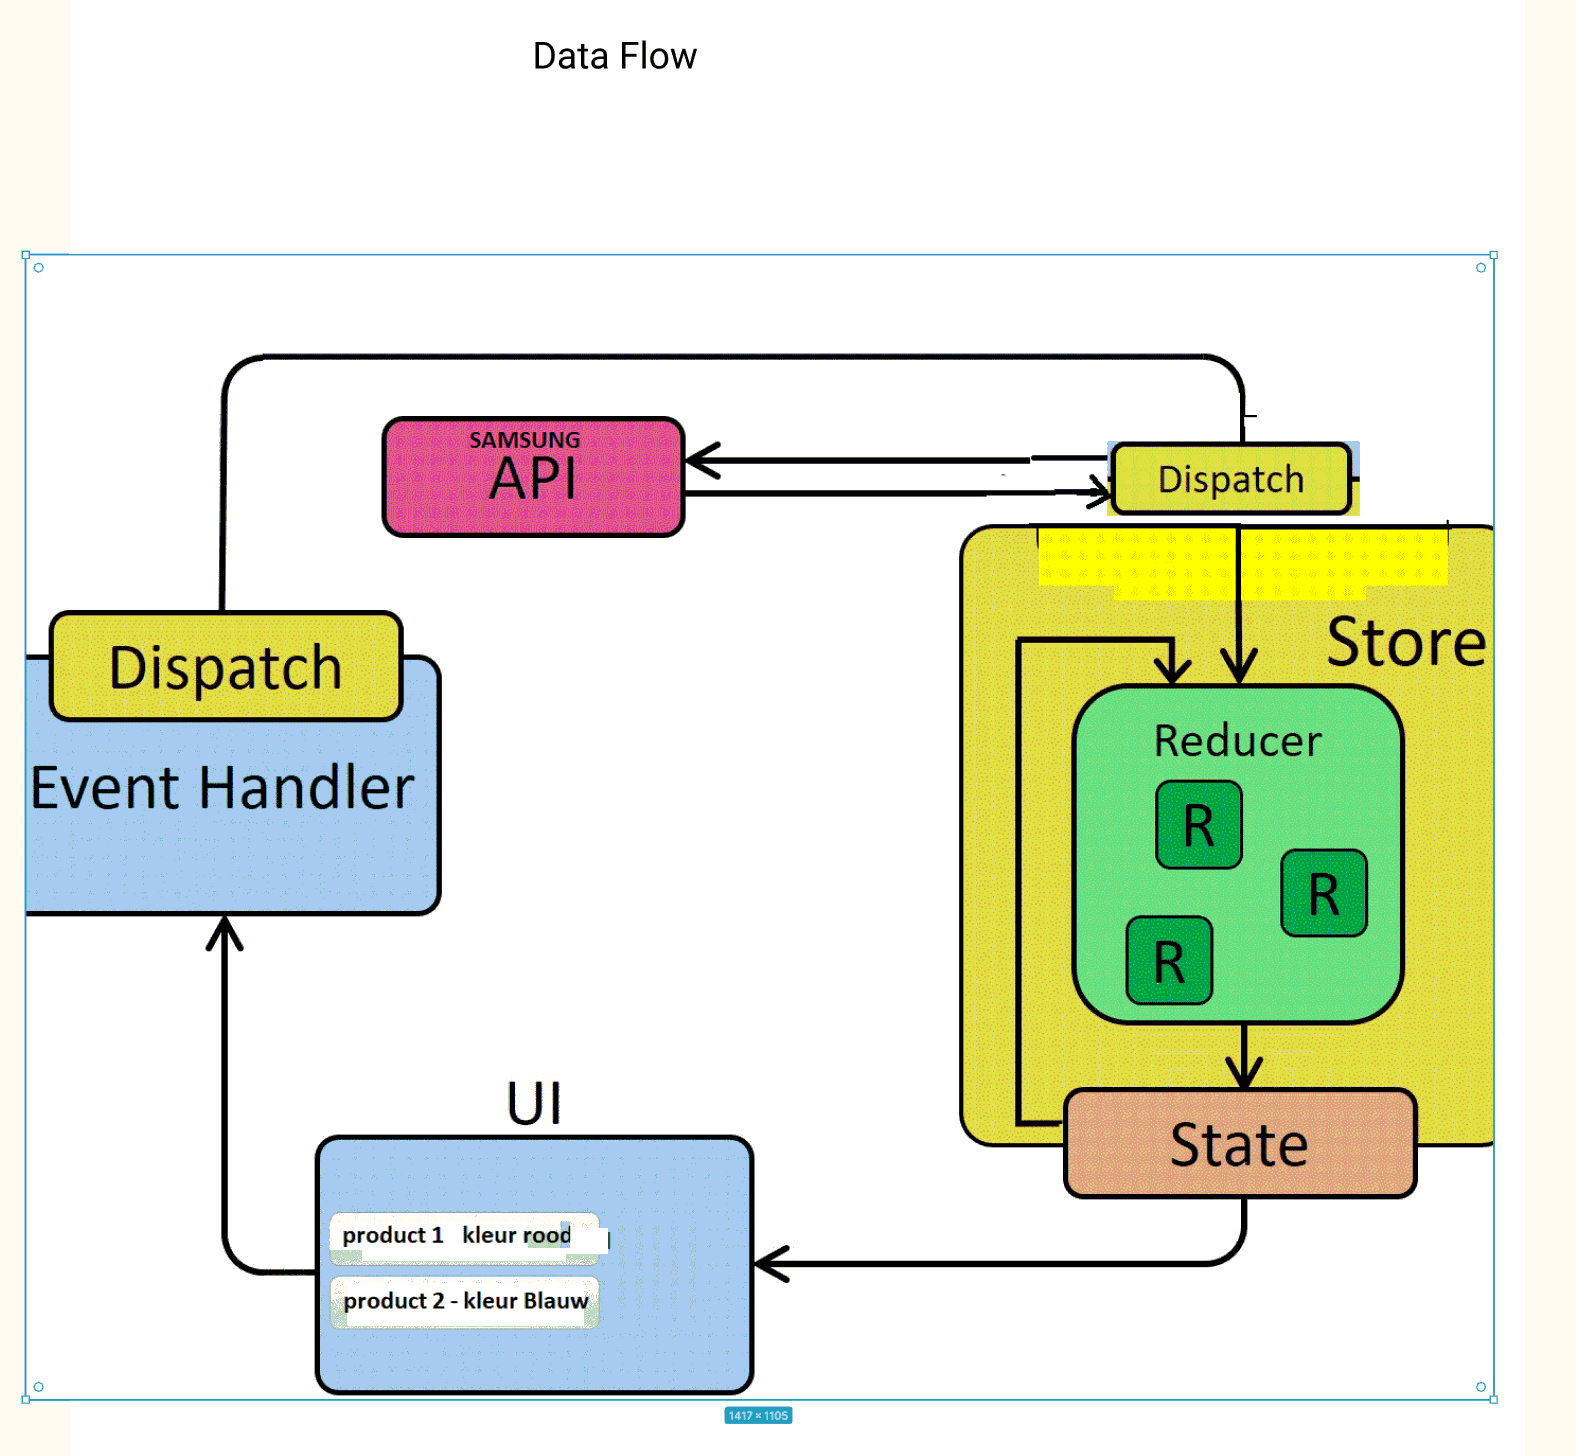
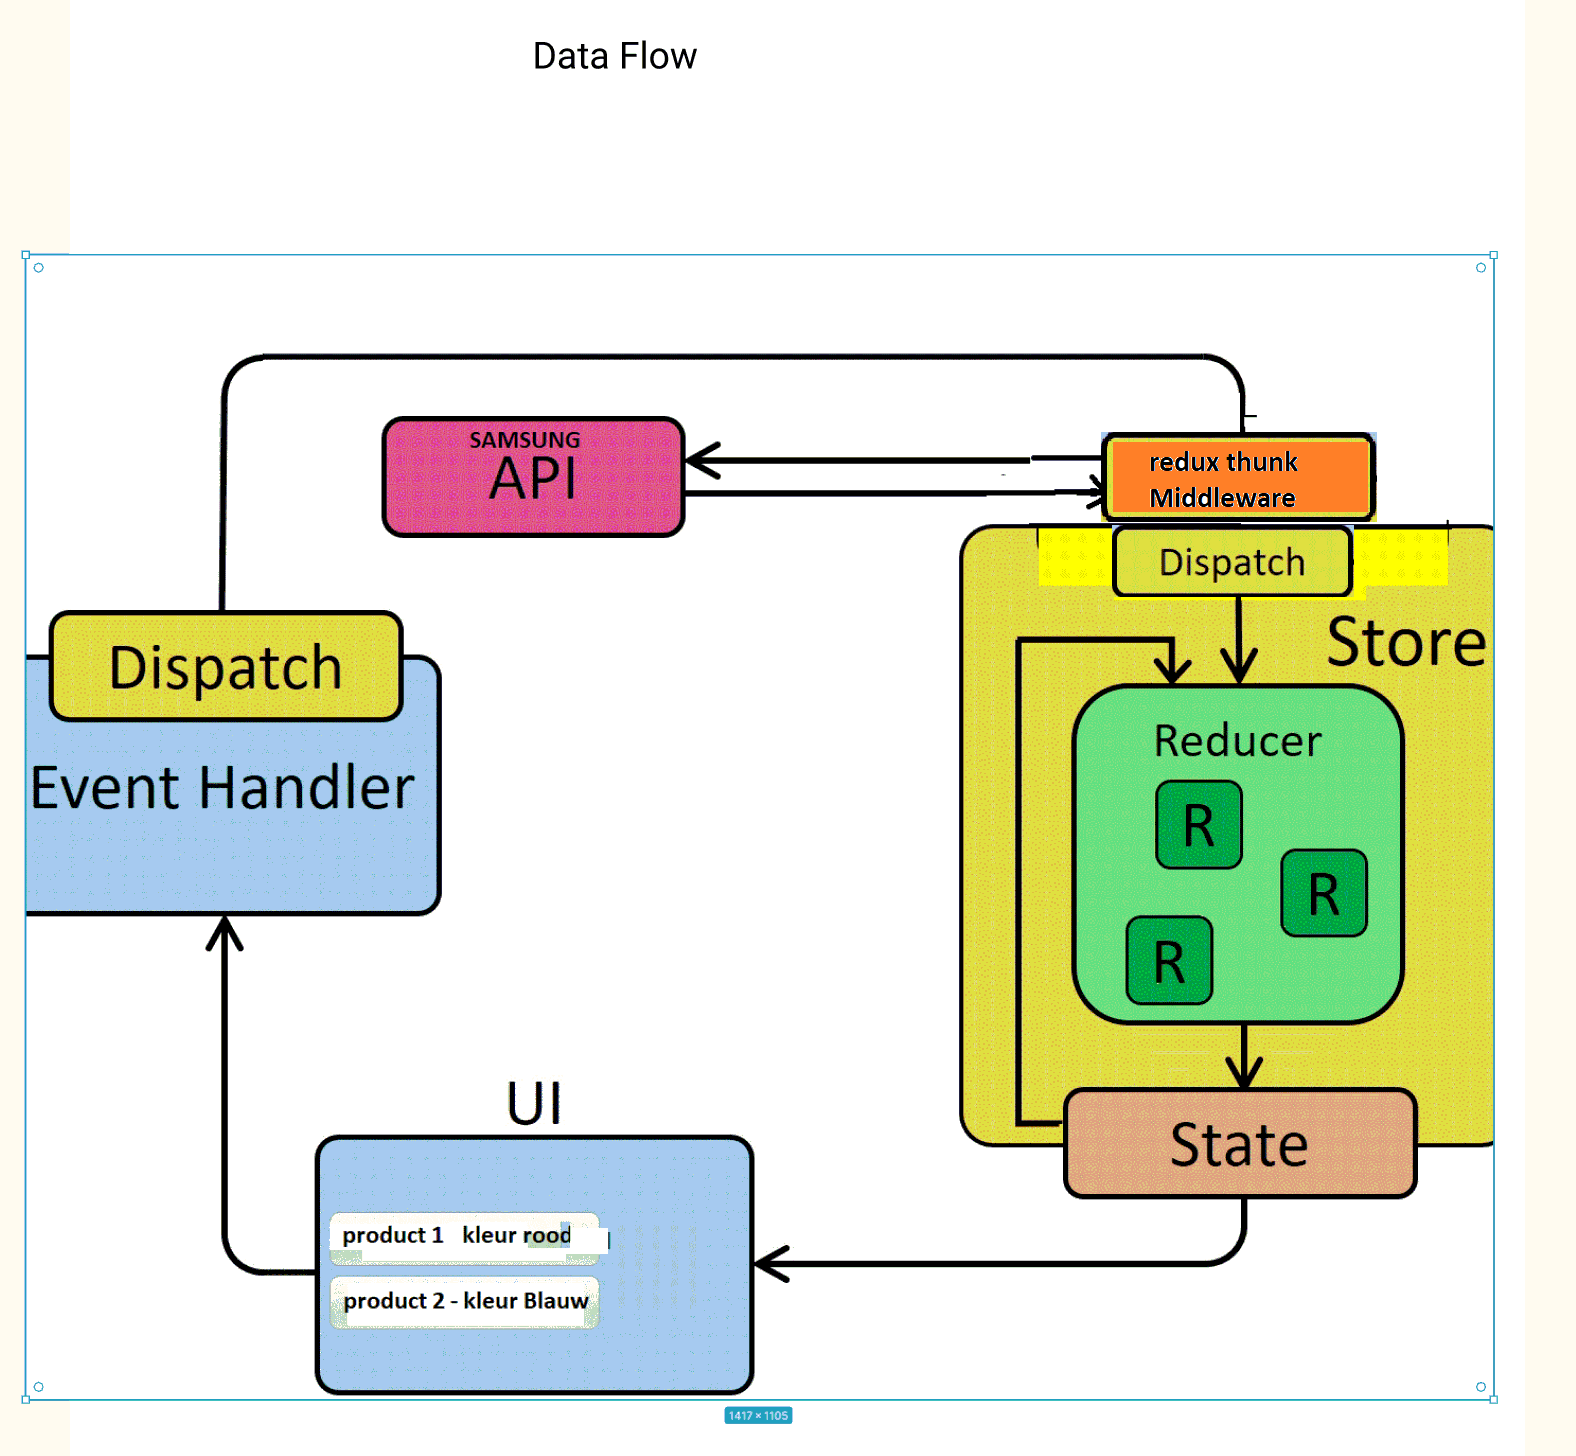
added redux thunk middleware in order to make async calls, updated the dataflow wireframe

Changed region(s): [[0.684, 0.2782, 0.9016, 0.4327]]

diff --git a/src/pages/Home.js b/src/pages/Home.js
@@ -1,7 +1,19 @@
 import React, { useEffect } from 'react'
+import { useDispatch, useSelector } from "react-redux";
+import { selectProducts } from "../store/products/selectors";
+import { fetchProducts } from '../store/products/actions';
+
 
 export default function Home() {
+    const dispatch = useDispatch()
+    const products = useSelector(selectProducts);
 
+    console.log('products', products);
+    dispatch(fetchProducts());
+    
+    useEffect(() => {
+        
+      }, []);
 
     return (
         <div>

diff --git a/src/store/index.js b/src/store/index.js
@@ -1,10 +1,11 @@
-import { createStore } from "redux";
+import { createStore, applyMiddleware, compose } from "redux";
+
+import ReduxThunk from "redux-thunk";
 import reducer from "./rootReducer";
 
+const composeEnhancers = window.__REDUX_DEVTOOLS_EXTENSION_COMPOSE__ || compose;
 
-const enhancer = window.__REDUX_DEVTOOLS_EXTENSION__
-  ? window.__REDUX_DEVTOOLS_EXTENSION__()
-  : x => x;
+const enhancer = composeEnhancers(applyMiddleware(ReduxThunk));
 
 const store = createStore(reducer, enhancer);
 

diff --git a/src/store/products/actions.js b/src/store/products/actions.js
@@ -10,12 +10,13 @@ export const fetchProductsAction = (products) => ({
 
 
 export const fetchProducts = () => {
-  return async (dispatch) => {
     
+  return async (dispatch) => {
+    console.log('fetchproducts was called')
     const response = await Axios.get(`${apiUrl}`);
 
     console.log(response);
-    // dispatch(fetchProductsAction(response.data));
+    dispatch(fetchProductsAction(response));
     
   };
 };

diff --git a/src/index.js b/src/index.js
@@ -3,11 +3,15 @@ import ReactDOM from 'react-dom';
 import './index.css';
 import App from './App';
 import reportWebVitals from './reportWebVitals';
+import { Provider } from "react-redux";
+import store from "./store";
 
 ReactDOM.render(
-  <React.StrictMode>
+  
+     <Provider store={store}>
     <App />
-  </React.StrictMode>,
+    </Provider>,
+  
   document.getElementById('root')
 );
 

diff --git a/src/store/products/reducer.js b/src/store/products/reducer.js
@@ -4,6 +4,7 @@ const initialState = [];
 export default (state = initialState, action) => {
   switch (action.type) {
     case "FETCH_PRODUCTS":
+        console.log('this action was called');
       return [...action.payload];
 
     default:
